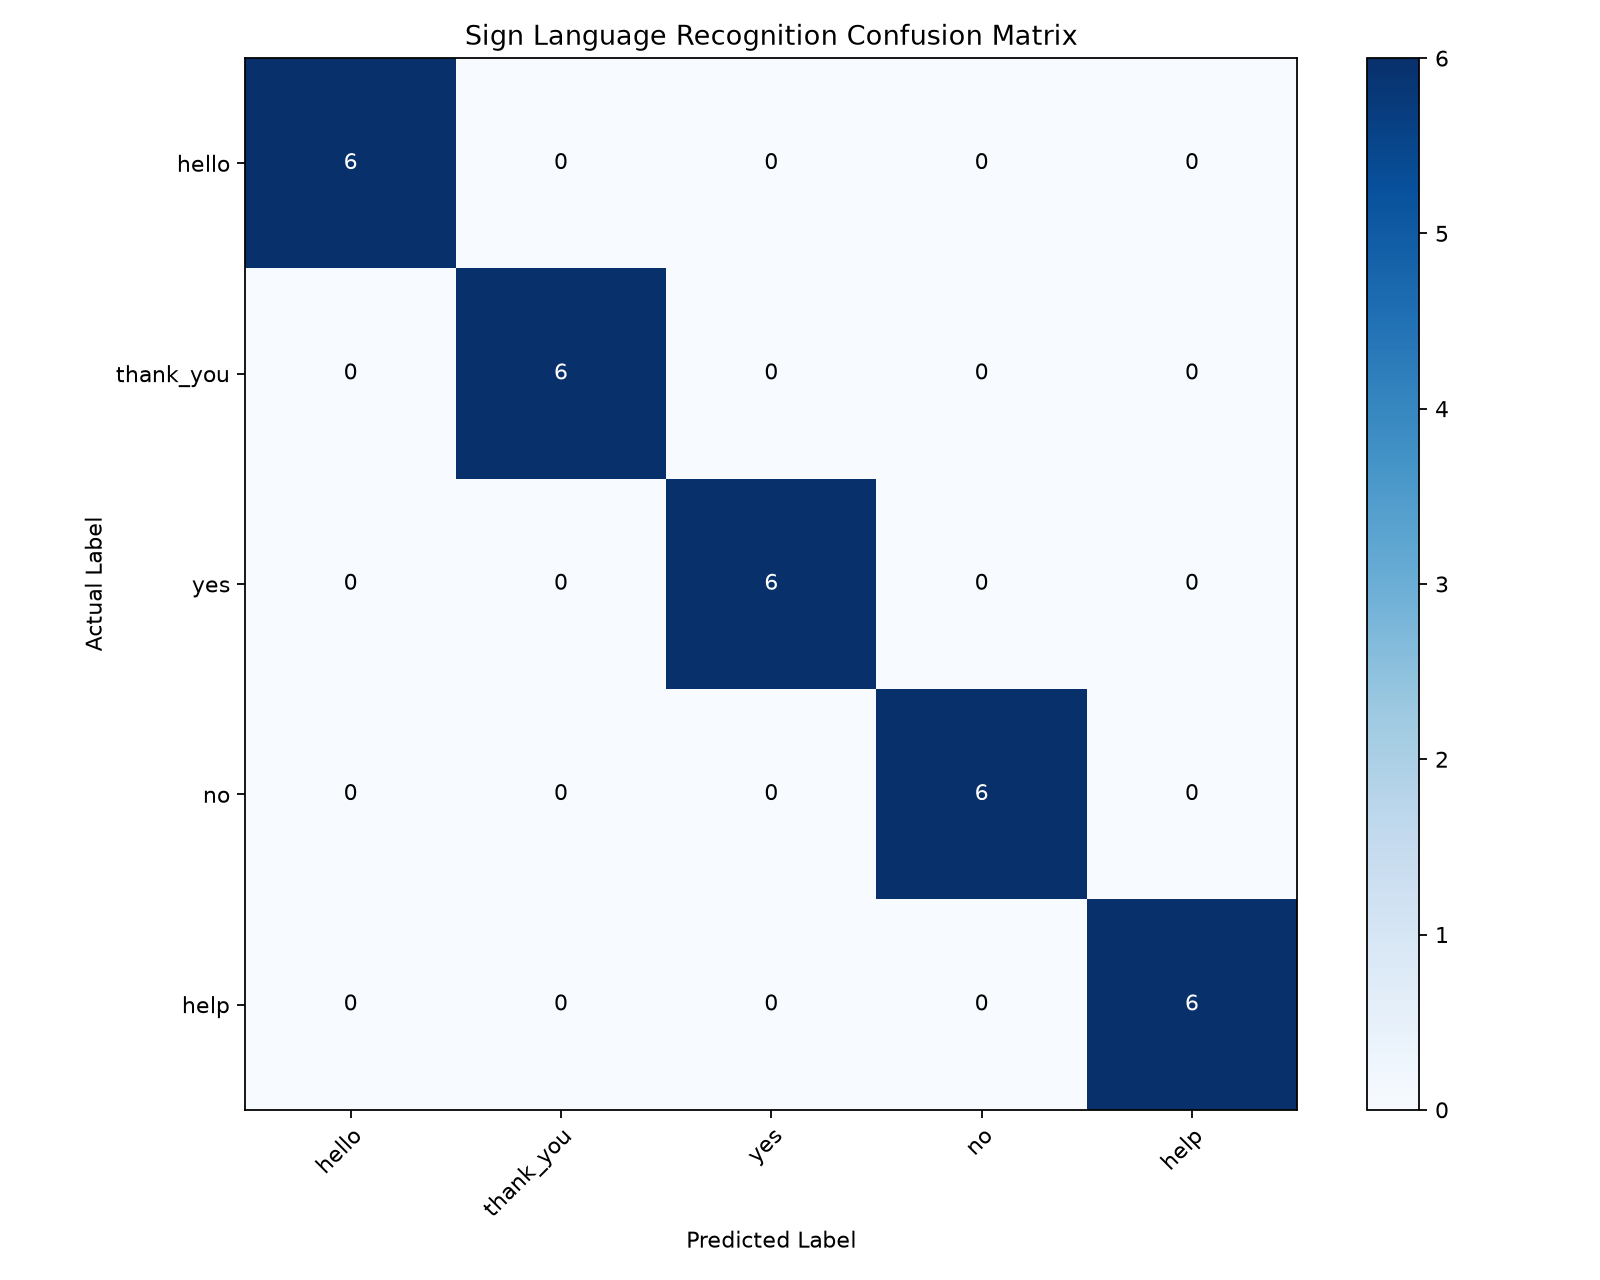
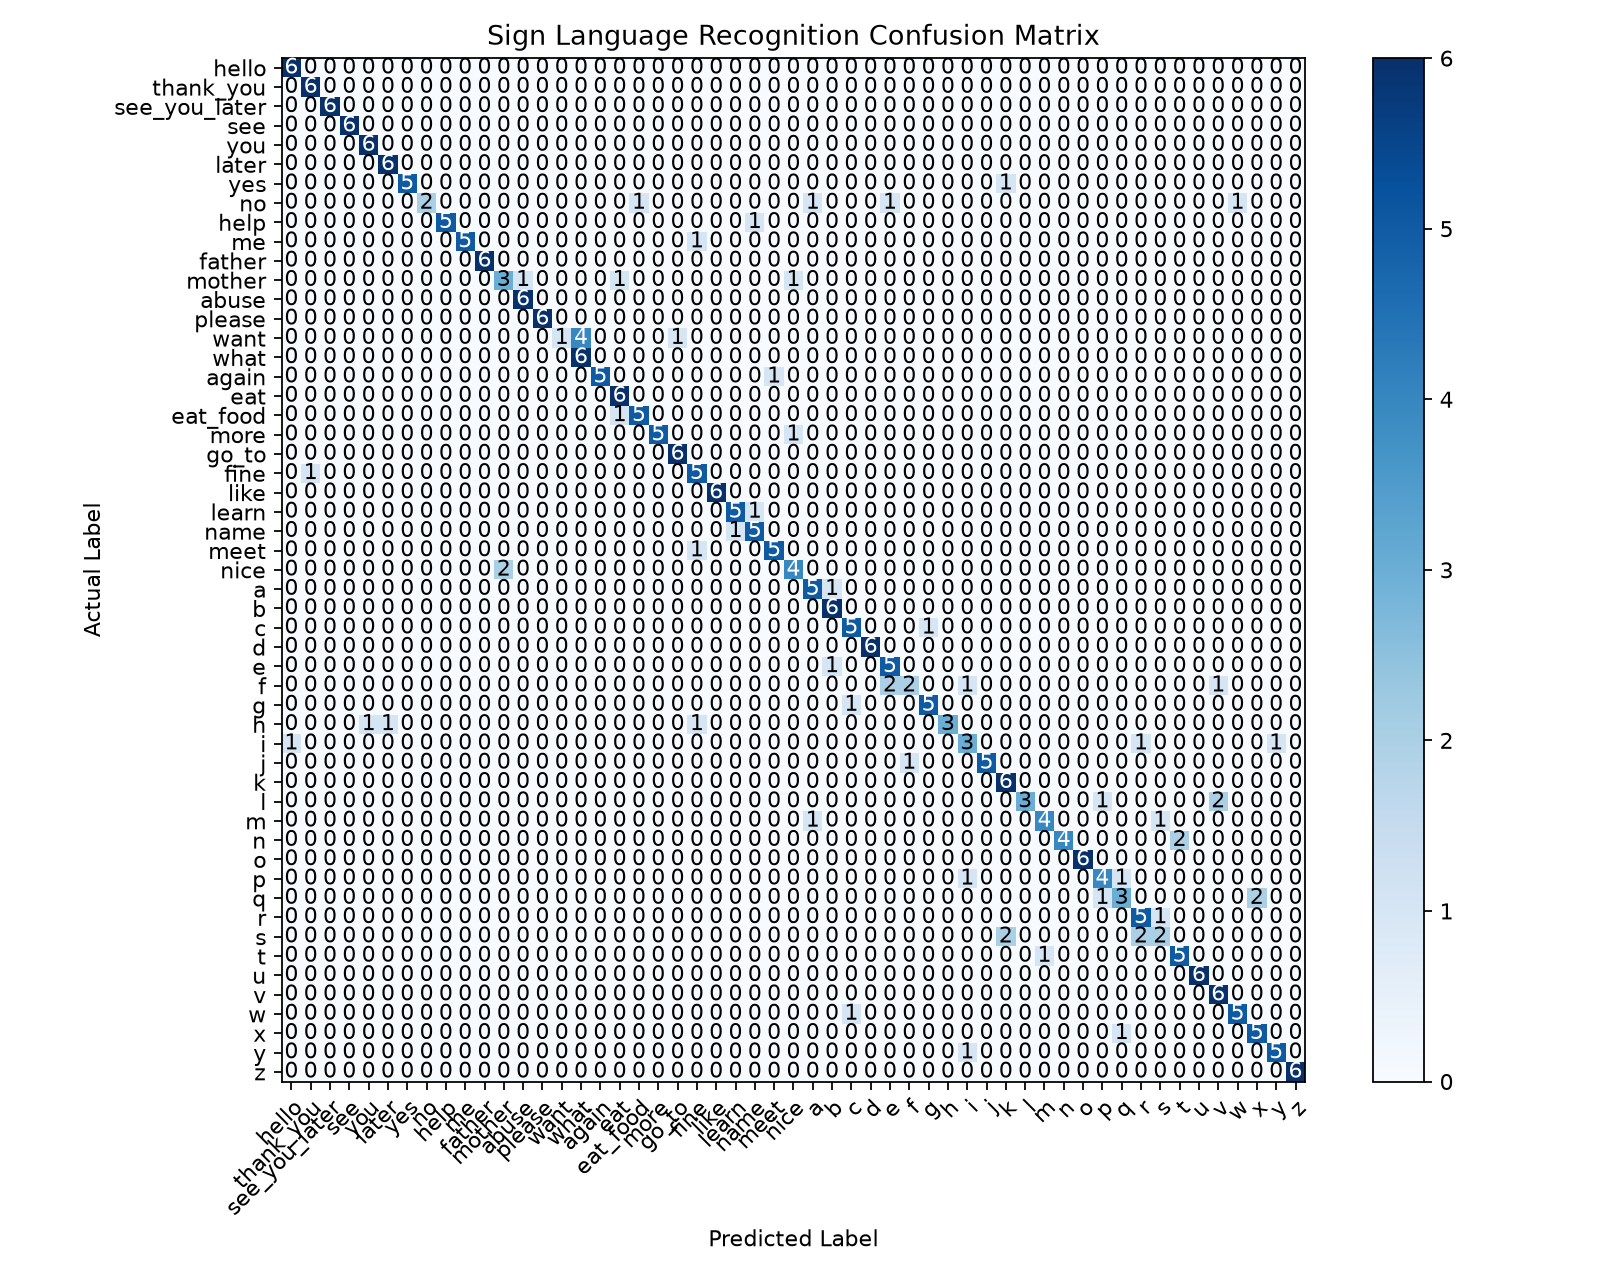
Updated requirements.txt

diff --git a/train.py b/train.py
@@ -35,6 +35,7 @@ LOG_DIR = os.path.join("Logs", "Train")
 MODELS_DIR = Path("models")
 BEST_MODEL_PATH = MODELS_DIR / "best_model.h5"
 FINAL_MODEL_PATH = MODELS_DIR / "sign_language_model.h5"
+ACTION_MODEL_PATH = MODELS_DIR / "action.h5"
 LABEL_MAP_PATH = MODELS_DIR / "label_map.json"
 DEFAULT_EPOCHS = 100
 
@@ -203,6 +204,7 @@ def train_model(args: argparse.Namespace) -> None:
     )
 
     model.save(str(FINAL_MODEL_PATH))
+    model.save(str(ACTION_MODEL_PATH))
     save_label_map(actions)
 
     final_training_accuracy = history.history["categorical_accuracy"][-1]
@@ -213,6 +215,7 @@ def train_model(args: argparse.Namespace) -> None:
     print("Training Complete")
     print(f"Best Model Saved: {BEST_MODEL_PATH}")
     print(f"Final Model Saved: {FINAL_MODEL_PATH}")
+    print(f"Live Model Saved: {ACTION_MODEL_PATH}")
     print("TensorBoard Command: tensorboard --logdir=Logs/Train")
 
 